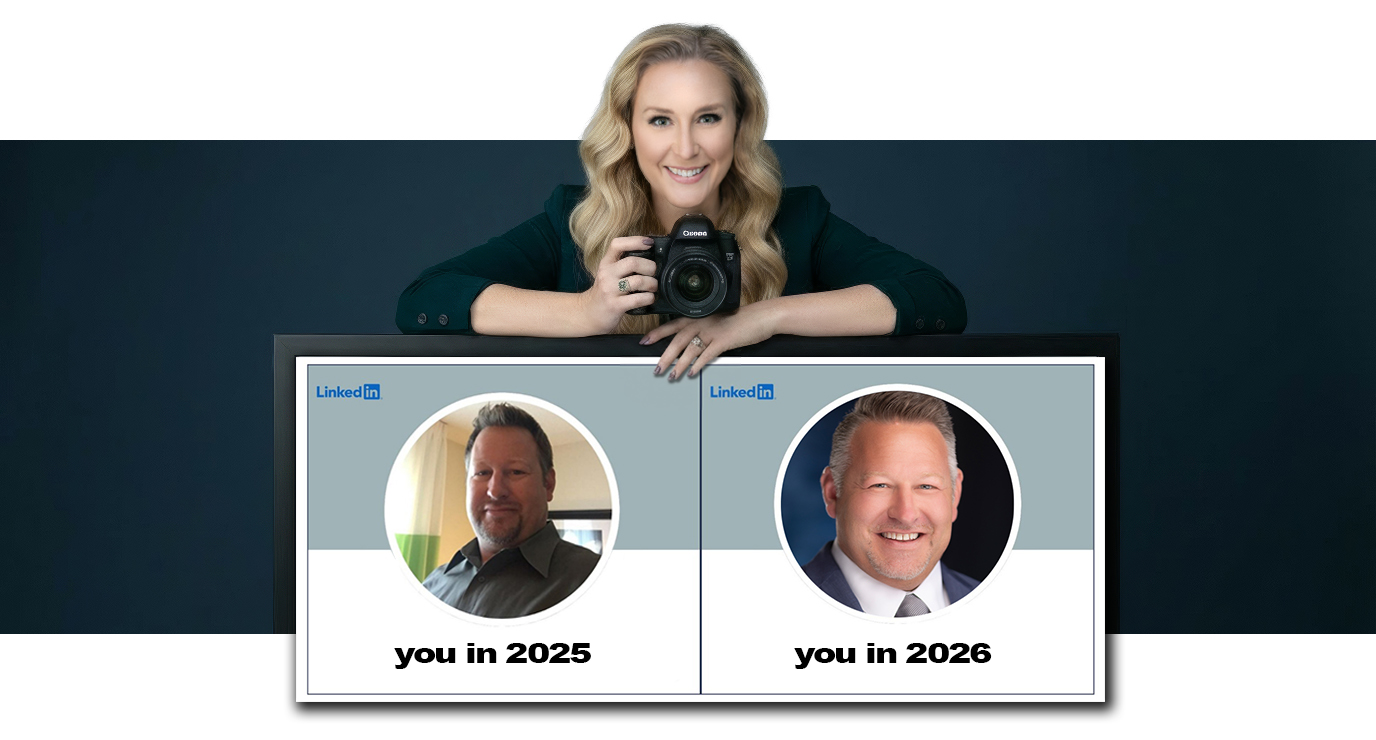
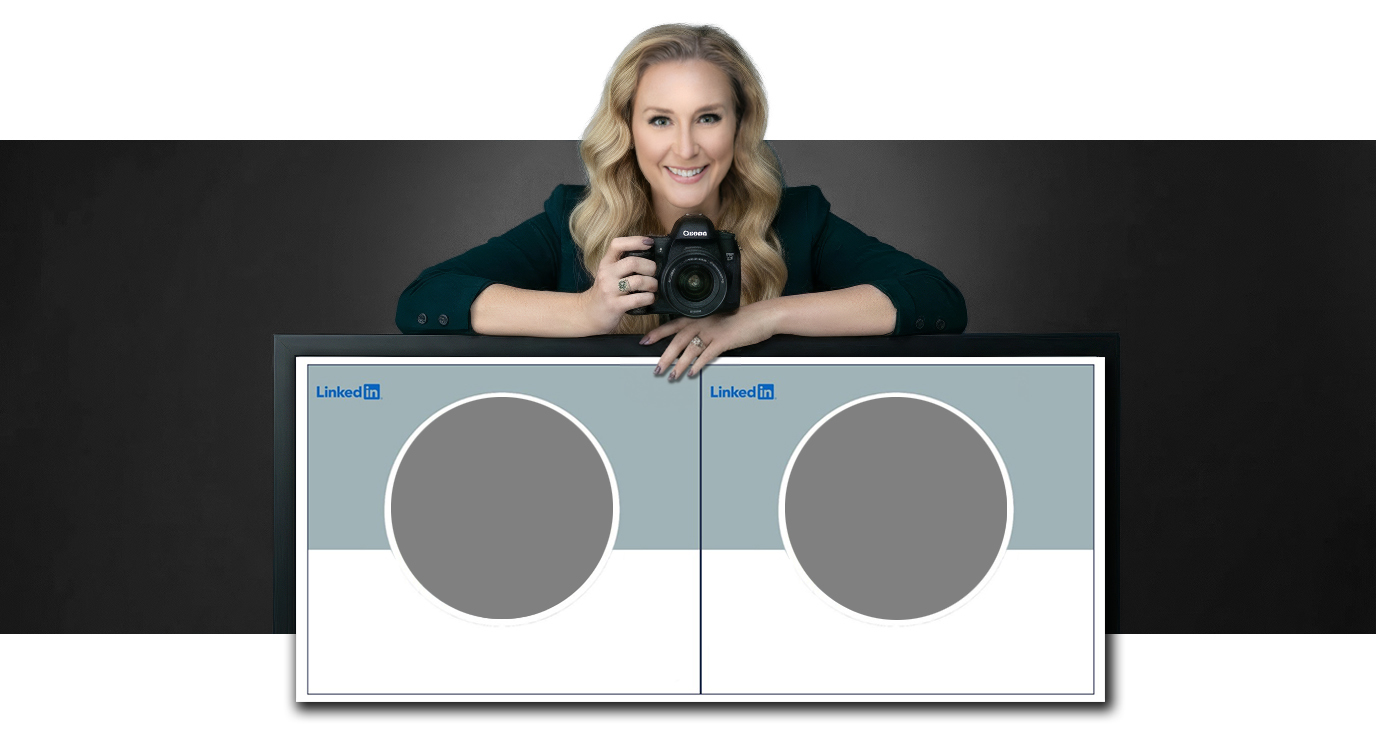
Landing V2 round 2: hero photo swap + 6 visual fixes
Per Kristi's review of the first preview deploy:

1. Replaced hero photo with the cleaner version that has 50% grey
   placeholder circles instead of LinkedIn mockup boxes. New file:
   public/marketing/hero-kristi.jpg (was the WEBSITE folder's _copy_2.jpg).

2. Carousel circles now align with the new grey circles' size and
   position: top 64% (was 55%), left 35% / 66% (was 35.5% / 65.5%),
   diameter clamp(140px, 18vw, 260px) (was 14vw — too small, left
   placeholders peeking through).

3. Before/after photos now use objectPosition: 'top' so foreheads
   and hair stay visible. Default center-crop was clipping the head
   from above on portrait reference photos.

4. Old 'Generation Studio / Selected (N)' navbar now hidden on the
   landing screen (LandingV2 has its own GenerAItion top nav). Stays
   on every other screen for the upload → grid → checkout flow.

5. Sub-headline copy changed: 'expression actually look right' →
   'expression actually look like you'. Ties to the brand promise
   on the editorial band ('Only pay for the headshots that look
   like you').

6. 'FROM KRISTINA SHERK · 20 YEARS BEHIND THE LENS' relocated from
   above the headline to below the hero graphic. Reads like a
   magazine caption under the photo instead of competing with the
   serif headline for the first read.

diff --git a/src/App.tsx b/src/App.tsx
@@ -513,15 +513,20 @@ const HeroCarousel = () => {
       style={{
         position: "absolute",
         left: `${leftPct}%`,
-        top: "55%",
+        // 64% vertical center matches the grey placeholder circles in the
+        // updated hero photo (ac4ed706-..._copy_2.jpg, May 4 2026 swap).
+        top: "64%",
         transform: "translate(-50%, -50%)",
         textAlign: "center",
       }}
     >
       <div
         style={{
-          width: "clamp(110px, 14vw, 200px)",
-          height: "clamp(110px, 14vw, 200px)",
+          // Sized to match the diameter of the grey placeholder circles in
+          // the new hero photo (~18% of the canvas width). Bigger than the
+          // first guess (14vw) which left the placeholders peeking through.
+          width: "clamp(140px, 18vw, 260px)",
+          height: "clamp(140px, 18vw, 260px)",
           borderRadius: "50%",
           overflow: "hidden",
           border: `4px solid ${BRAND.white}`,
@@ -536,6 +541,11 @@ const HeroCarousel = () => {
             width: "100%",
             height: "100%",
             objectFit: "cover",
+            // Anchor the crop to the TOP of the source photo so foreheads
+            // and hair stay visible — the carousel circles are wider than
+            // they are tall on portrait reference photos, and default
+            // center-crop was clipping faces from above.
+            objectPosition: "top",
             opacity: fading ? 0 : 1,
             transition: `opacity ${FADE_MS}ms ease`,
           }}
@@ -561,8 +571,8 @@ const HeroCarousel = () => {
 
   return (
     <>
-      {circle(HERO_PAIRS[idx].before, "5 min ago", 35.5)}
-      {circle(HERO_PAIRS[idx].after, "5 min from now", 65.5)}
+      {circle(HERO_PAIRS[idx].before, "5 min ago", 35)}
+      {circle(HERO_PAIRS[idx].after, "5 min from now", 66)}
     </>
   );
 };
@@ -665,21 +675,6 @@ const LandingV2 = ({ onStart, onPromoUnlock }: LandingProps) => {
           textAlign: "center",
         }}
       >
-        {/* Gold eyebrow */}
-        <div
-          style={{
-            fontFamily: SANS_STACK,
-            fontSize: 12,
-            fontWeight: 600,
-            letterSpacing: 2.4,
-            textTransform: "uppercase",
-            color: BRAND.gold,
-            marginBottom: 28,
-          }}
-        >
-          From Kristina Sherk · 20 Years Behind the Lens
-        </div>
-
         {/* Big serif headline */}
         <h1
           style={{
@@ -717,7 +712,7 @@ const LandingV2 = ({ onStart, onPromoUnlock }: LandingProps) => {
         >
           Most AI headshot tools are built by coders. This one is built by an
           actual headshot photographer — so the lighting, posing, and
-          expression actually look right.
+          expression actually look like you.
         </p>
 
         {/* Hero photo with overlaid carousel */}
@@ -741,6 +736,24 @@ const LandingV2 = ({ onStart, onPromoUnlock }: LandingProps) => {
             }}
           />
           <HeroCarousel />
+        </div>
+
+        {/* Photographer attribution — relocated below the graphic on
+            2026-05-04 per Kristi. Reads like a magazine caption sitting
+            under the hero photo, instead of competing with the headline
+            for the first read. */}
+        <div
+          style={{
+            fontFamily: SANS_STACK,
+            fontSize: 12,
+            fontWeight: 600,
+            letterSpacing: 2.4,
+            textTransform: "uppercase",
+            color: BRAND.gold,
+            marginTop: 28,
+          }}
+        >
+          From Kristina Sherk · 20 Years Behind the Lens
         </div>
       </section>
 
@@ -4661,7 +4674,12 @@ export default function App() {
 
   return (
     <div style={{ minHeight: "100vh", background: C.pageBg, ...font }}>
-      <Navbar cartCount={selectedImageIndices.length} onLogoClick={reset} />
+      {/* Old "Generation Studio / Selected (N)" navbar — hidden on the
+          landing screen because LandingV2 has its own GenerAItion top nav.
+          Showing both at once stacks two header bars and visually clashes. */}
+      {screen !== "landing" && (
+        <Navbar cartCount={selectedImageIndices.length} onLogoClick={reset} />
+      )}
 
       {/* Stripe verification overlay — shown when the user just returned from
           Stripe Checkout. Card payments resolve instantly so this barely